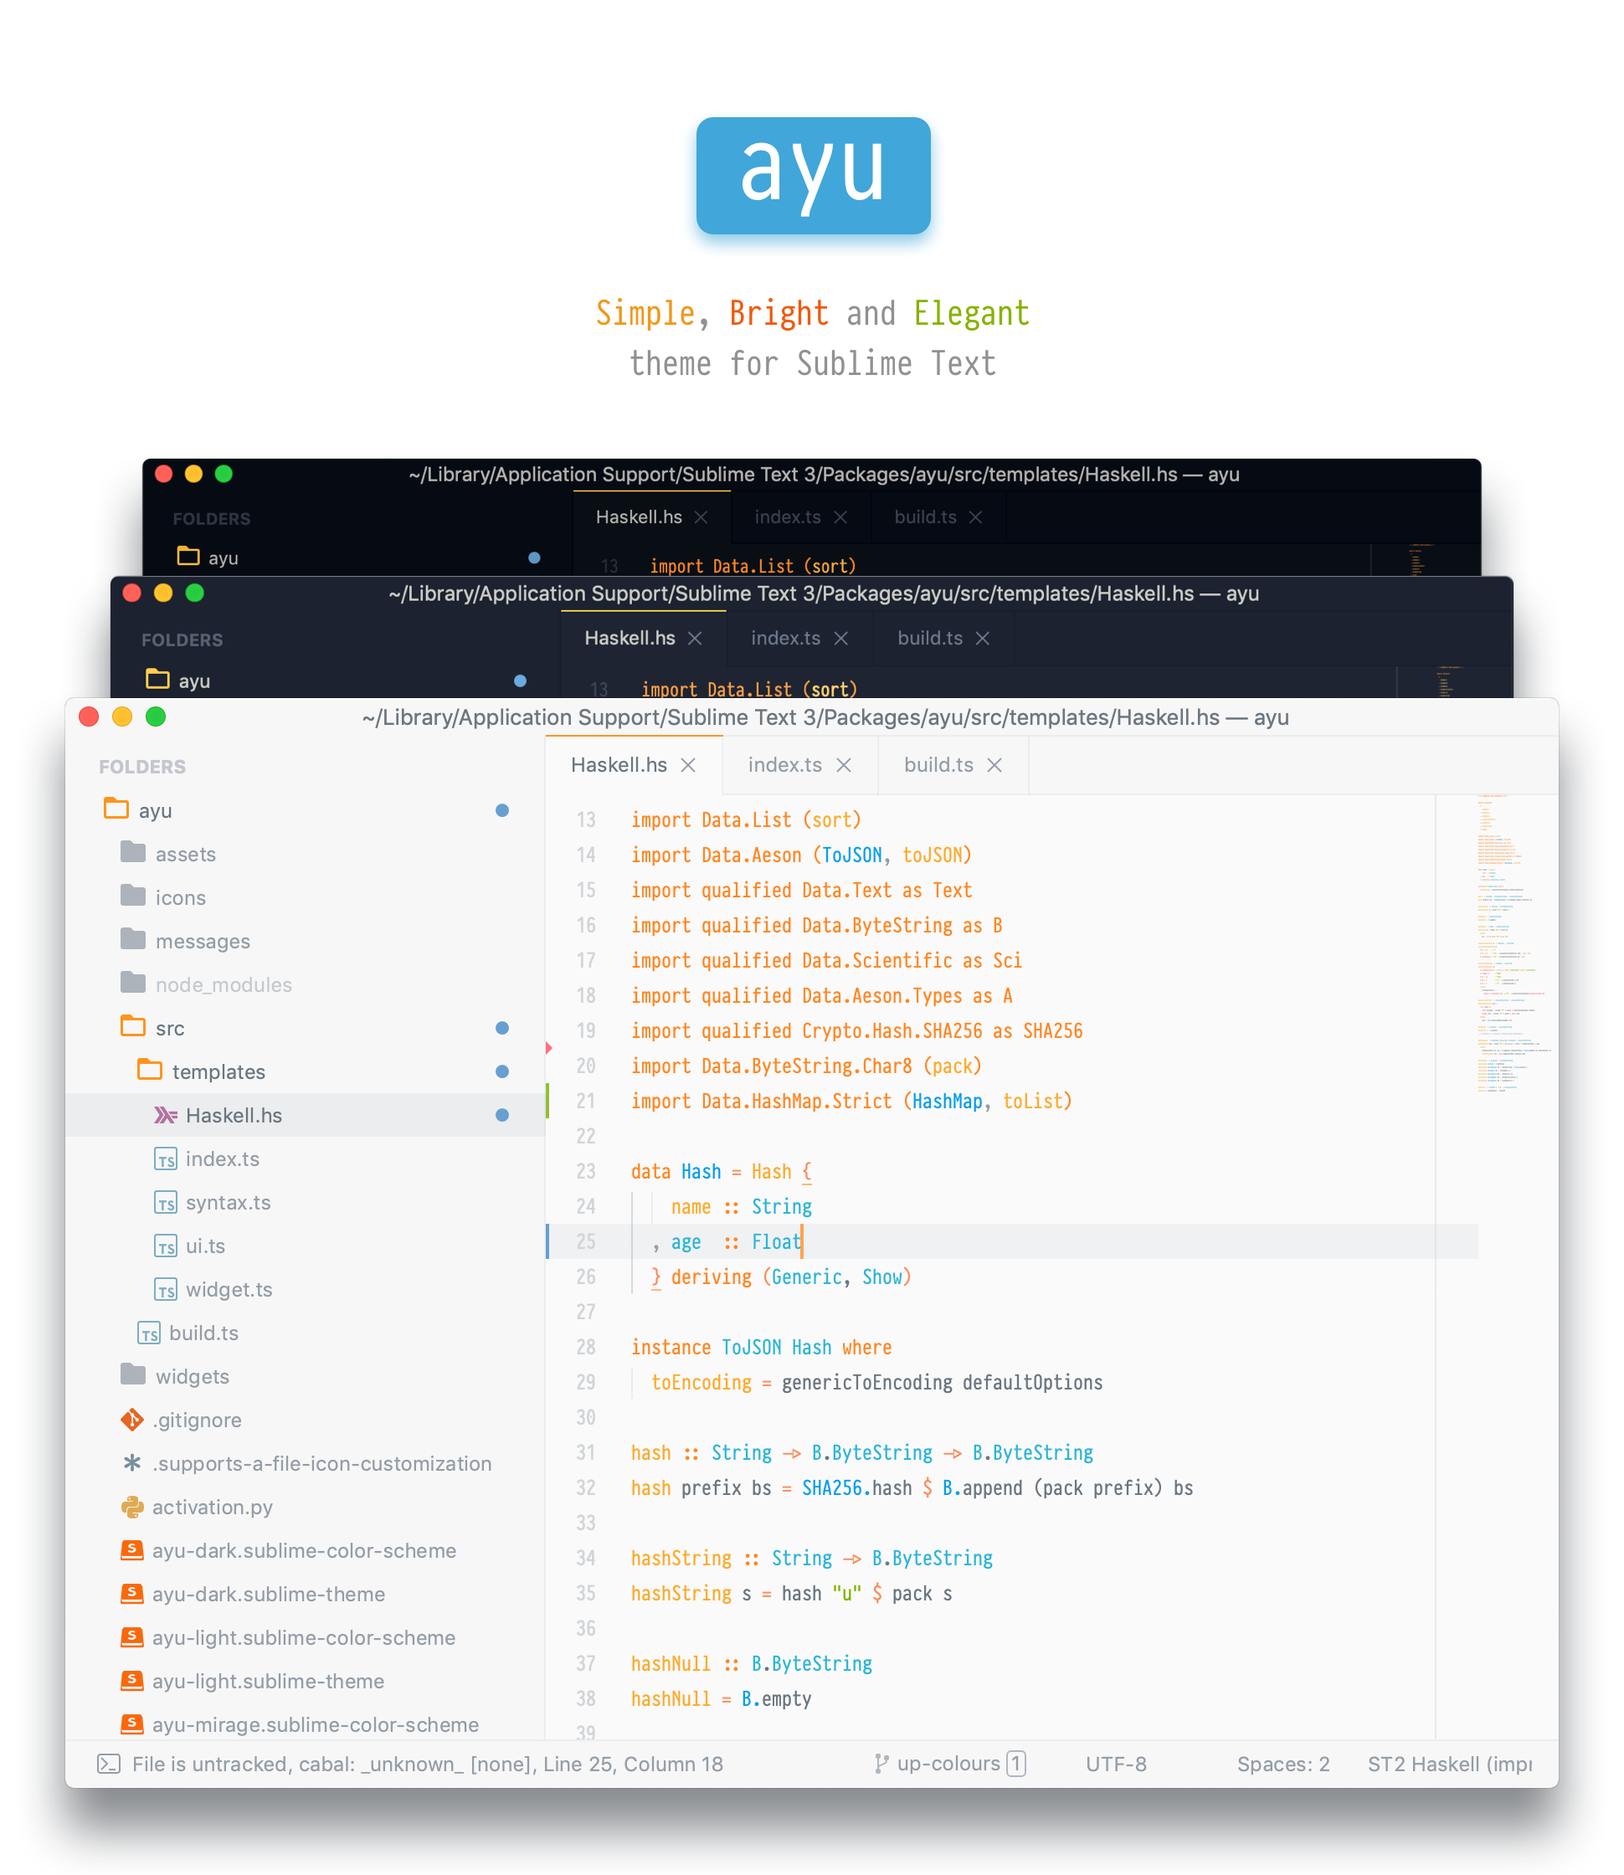
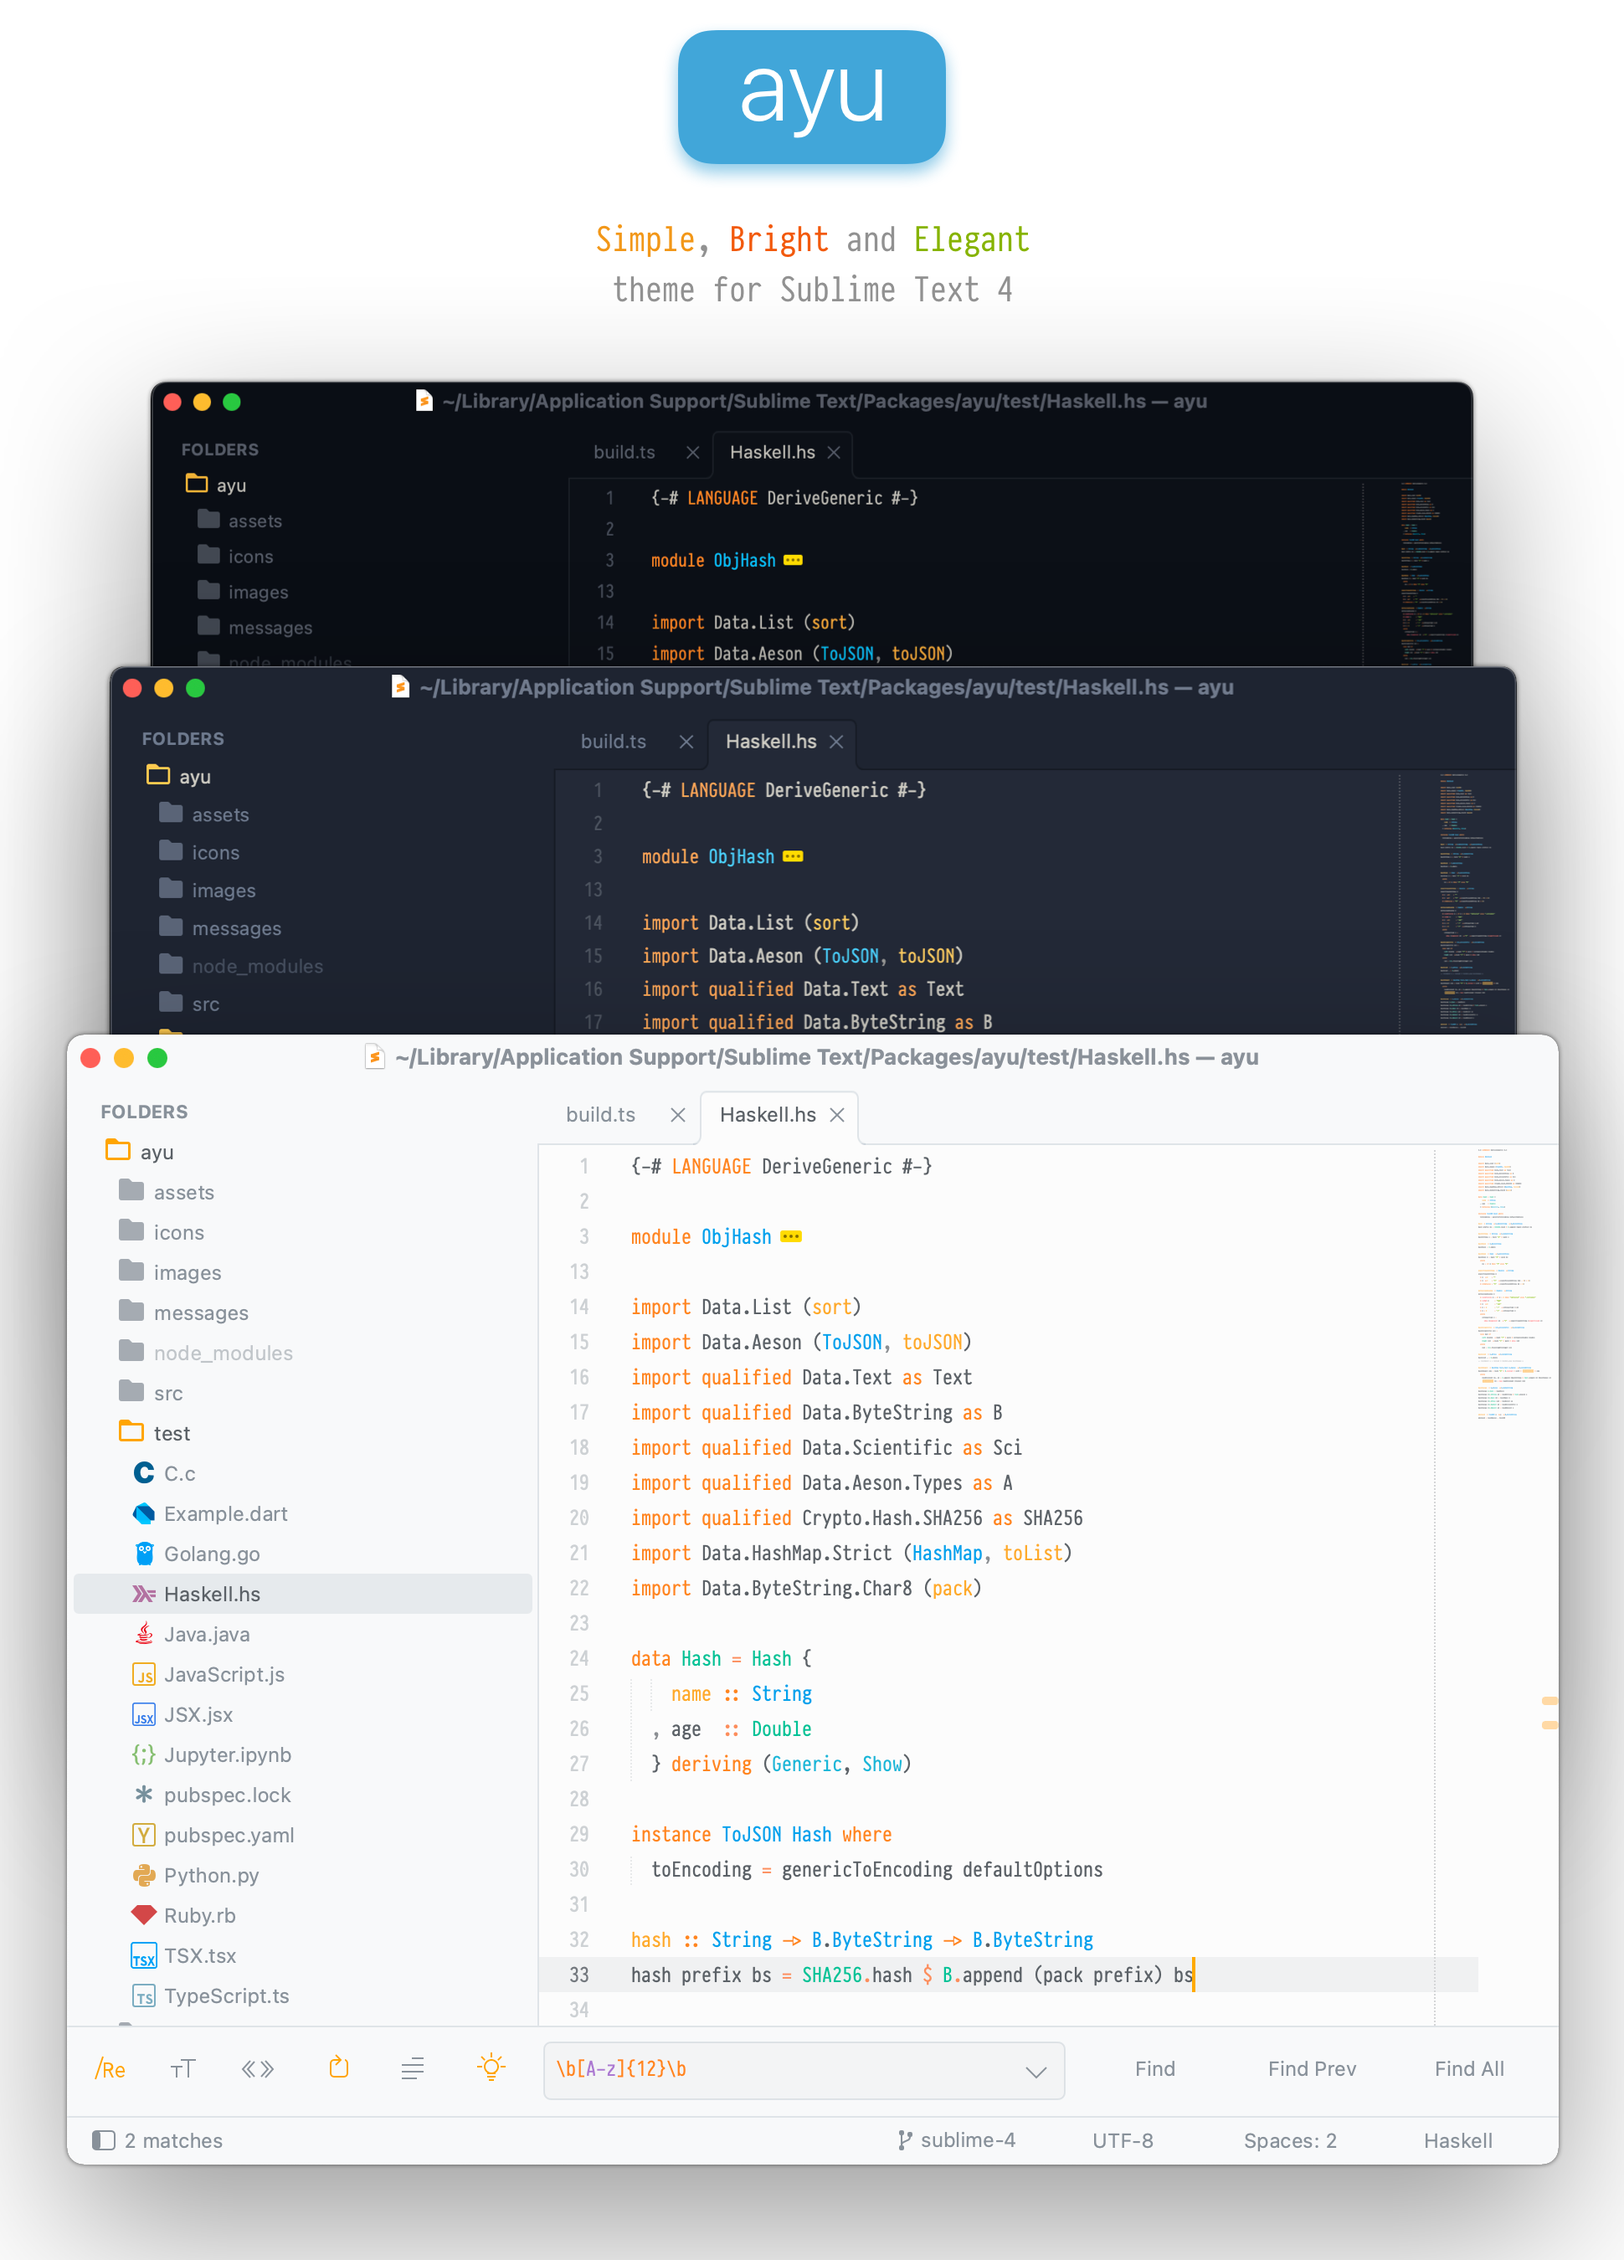
Prepare for the release

Changed region(s): [[0.0, 0.0, 1.0, 1.0], [0.6186, 0.7188, 0.6804, 0.7812]]

diff --git a/README.md b/README.md
@@ -2,6 +2,8 @@
 
 `ayu` is a simple theme with bright colors and comes in three versions — *dark*, *mirage* and *light* for all day long comfortable work.
 
+> All screenshots use wonderful [Pragmata Pro](https://fsd.it/shop/fonts/pragmatapro/) font
+
 ### File Icons
 
 `ayu` from version `3.0.0` supports customization via [A File Icon](https://github.com/ihodev/a-file-icon) package. Please install it and restart Sublime for better experience.
@@ -11,7 +13,7 @@
 Since verion `5.0.0` monospaced fonts options were removed. But it's still possible to use your favourite font in the
 user interface of the theme, just follow through these simple steps:
 
-![ayu mono](./images/mono.png)
+![ayu mono](./images/browse.png)
 
 1. Pull up command pallete via <kbd>cmd/ctrl</kbd> + <kbd>shift</kbd> + <kbd>p</kbd>
 2. Type in `Browse packages`
@@ -54,20 +56,20 @@ user interface of the theme, just follow through these simple steps:
 
 <h6 align='center'>Light with <code>ui_separator</code> option on</h6>
 
-![Light](https://i.imgur.com/pQQfIio.png)
+![Light](images/light-separator.png)
 
 ---
 
 
 <h6 align='center'>Mirage with <code>ui_separator</code> option off</h6>
 
-![Mirage](https://i.imgur.com/KYXJbBu.png)
+![Mirage](images/mirage-no-separator.png)
 
 ---
 
 <h6 align='center'>Dark with <code>ui_separator</code> option on</h6>
 
-![Dark](https://i.imgur.com/lo8XBTr.png)
+![Dark](images/dark-separator.png)
 
 ### Settings
 
@@ -132,10 +134,14 @@ For dark theme:
 "color_scheme": "Packages/ayu/ayu-dark.sublime-color-scheme",
 ```
 
+### Sublime Text 3
+ayu no longer supports Sublime Text 3. But you still can download
+and install manually [latest supported version](https://github.com/dempfi/ayu/releases/tag/v5.1.0).
+
 ### Sublime Text 2
 
 ayu no longer supports Sublime Text 2. But you still can download
-and install manually [previous version](https://github.com/dempfi/ayu/releases/tag/3.2.2).
+and install manually [latest supported version](https://github.com/dempfi/ayu/releases/tag/3.2.2).
 
 ### Related projects and ports
 

diff --git a/messages/6.0.0.md b/messages/6.0.0.md
@@ -1,0 +1,24 @@
+**ayu theme for Sublime Text**
+https://github.com/dempfi/ayu/releases
+
+---
+
+ayu from version 3.0.0 supports customization via A File Icon package
+(https://github.com/ihodev/a-file-icon). Please install it for better expereince.
+
+---
+
+# Version 6.0.0
+
+🎉 This release updates ayu to support Sublime Text 4
+
+- New tab style for separators
+- Updated colors to the latest
+
+---
+
+Breaking changes:
+
+- None
+
+---
